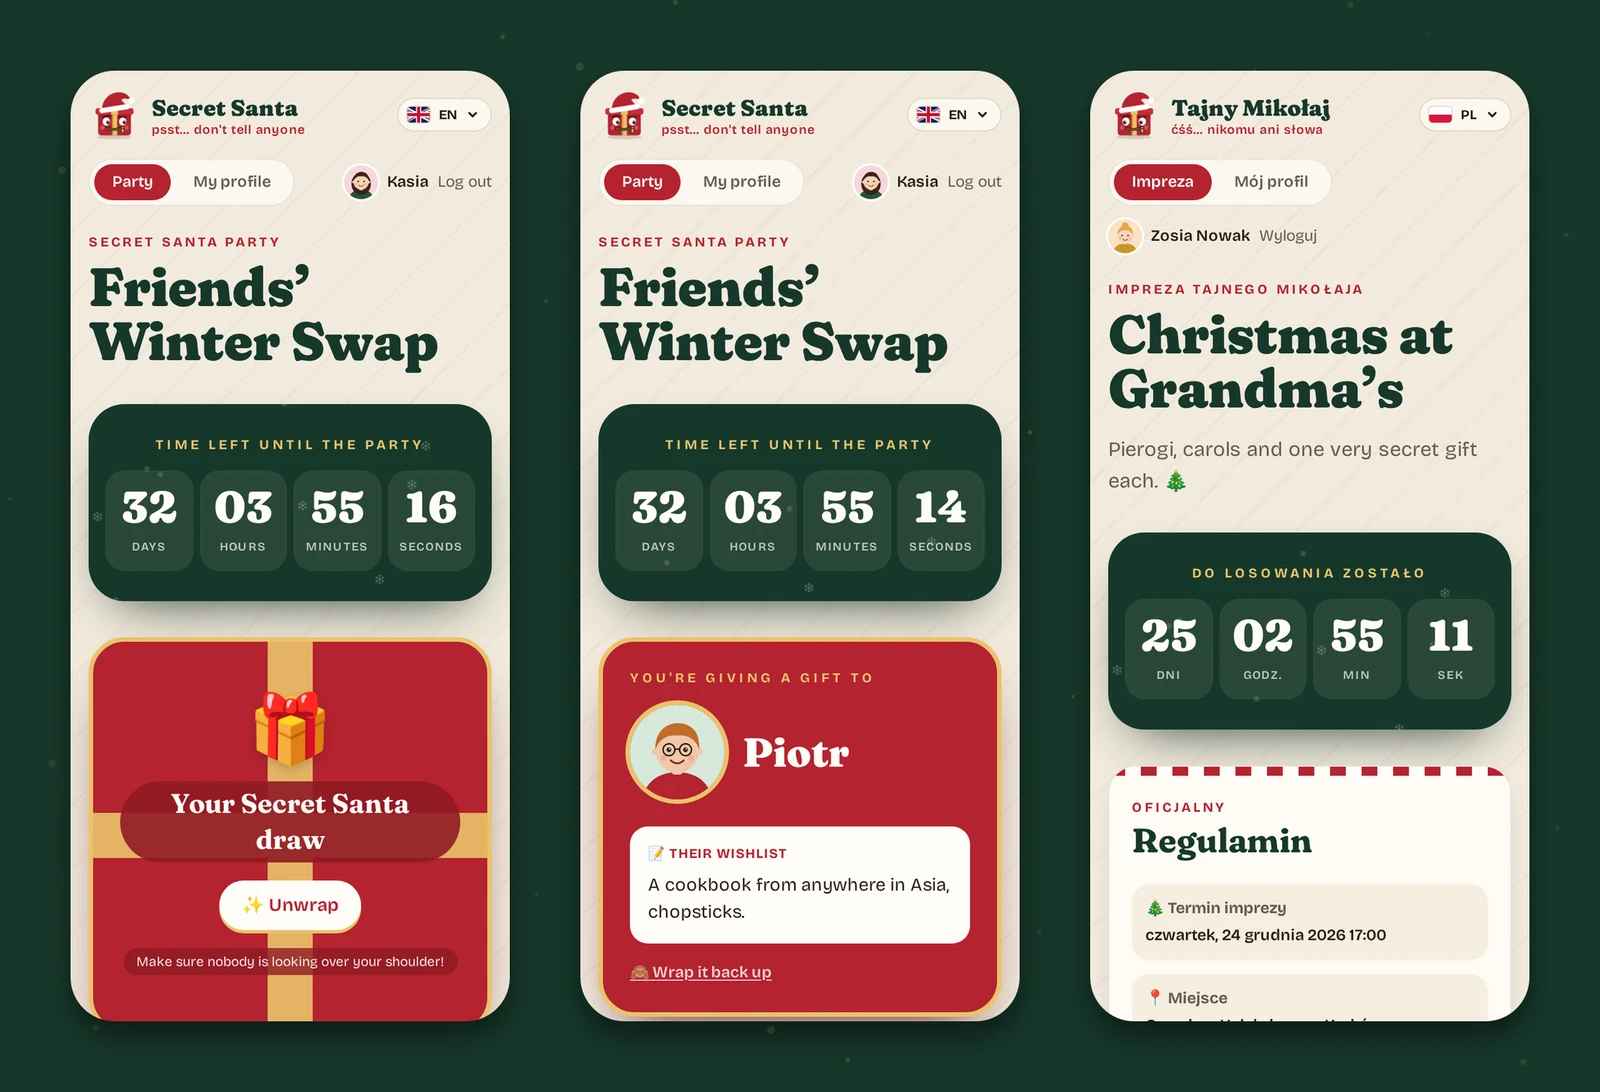
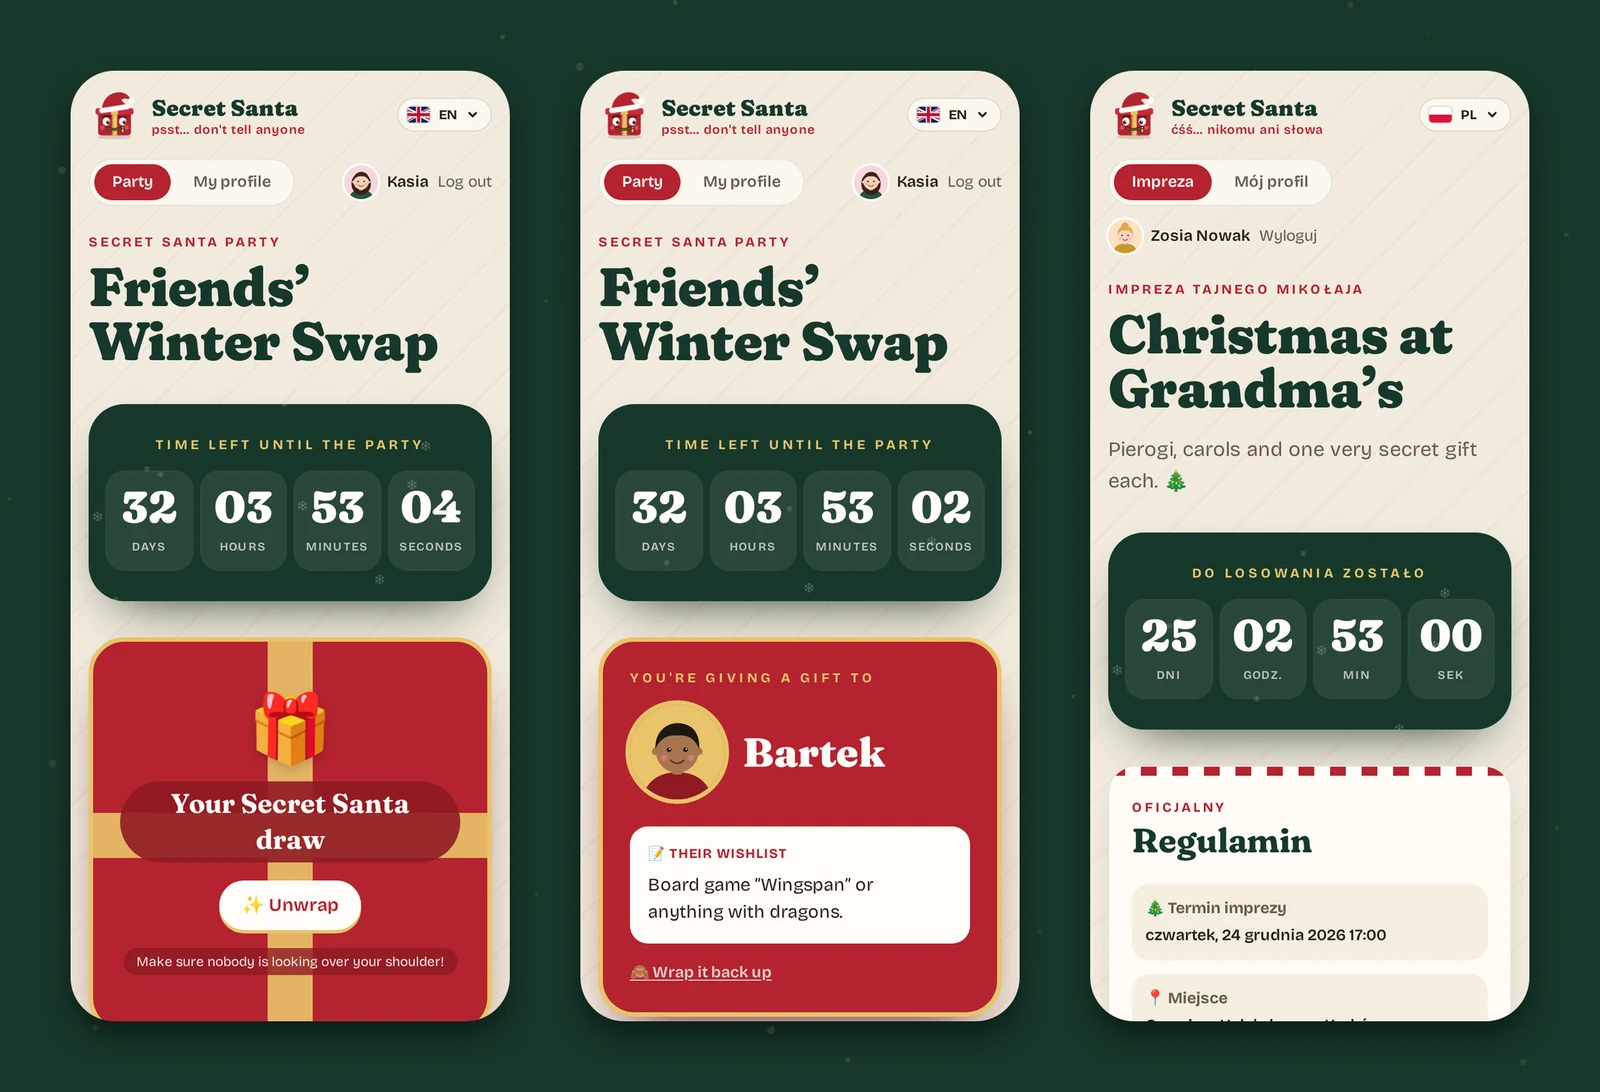
Keep the app name "Secret Santa" in every language
The name is a brand, so it moves from the app_name message to a constant in
src/lib/brand.ts. Descriptive Polish text keeps the Polish term.

diff --git a/src/routes/+layout.svelte b/src/routes/+layout.svelte
@@ -1,4 +1,5 @@
 <script lang="ts">
+	import { APP_NAME } from '#lib/brand.ts';
 	import './layout.css';
 	import favicon from '#lib/assets/favicon.svg';
 	import Logo from '#lib/components/Logo.svelte';
@@ -11,7 +12,7 @@
 
 <svelte:head>
 	<link rel="icon" href={favicon} />
-	<title>{m.app_name()}</title>
+	<title>{APP_NAME}</title>
 	<meta name="theme-color" content="#17382a" />
 </svelte:head>
 
@@ -22,7 +23,7 @@
 			<span class="leading-none">
 				<span
 					class="block font-display text-xl font-black text-pine sm:text-2xl"
-					style="font-variation-settings:'SOFT' 100,'WONK' 1">{m.app_name()}</span
+					style="font-variation-settings:'SOFT' 100,'WONK' 1">{APP_NAME}</span
 				>
 				<span class="block text-[0.7rem] font-semibold tracking-wider text-berry"
 					>{m.app_tagline()}</span

diff --git a/src/routes/new/+page.svelte b/src/routes/new/+page.svelte
@@ -1,4 +1,5 @@
 <script lang="ts">
+	import { APP_NAME } from '#lib/brand.ts';
 	import { enhance } from '$app/forms';
 	import { m } from '#lib/paraglide/messages.js';
 	import { errorText } from '#lib/errors.ts';
@@ -85,7 +86,7 @@
 	const error = $derived(localError || (form?.error ?? ''));
 </script>
 
-<svelte:head><title>{m.create_party()} · {m.app_name()}</title></svelte:head>
+<svelte:head><title>{m.create_party()} · {APP_NAME}</title></svelte:head>
 
 <div class="mx-auto max-w-2xl pt-4">
 	<p class="eyebrow">{m.create_party()}</p>

diff --git a/src/routes/admin/+page.svelte b/src/routes/admin/+page.svelte
@@ -1,4 +1,5 @@
 <script lang="ts">
+	import { APP_NAME } from '#lib/brand.ts';
 	import { enhance } from '$app/forms';
 	import { m } from '#lib/paraglide/messages.js';
 	import { getLocale } from '#lib/paraglide/runtime.js';
@@ -11,7 +12,7 @@
 	let { data, form }: PageProps = $props();
 </script>
 
-<svelte:head><title>{m.site_admin()} · {m.app_name()}</title></svelte:head>
+<svelte:head><title>{m.site_admin()} · {APP_NAME}</title></svelte:head>
 
 {#if !data.loggedIn}
 	<div class="mx-auto max-w-sm pt-8 text-center">

diff --git a/src/routes/p/[id]/+layout.svelte b/src/routes/p/[id]/+layout.svelte
@@ -1,4 +1,5 @@
 <script lang="ts">
+	import { APP_NAME } from '#lib/brand.ts';
 	import { m } from '#lib/paraglide/messages.js';
 	import { page } from '$app/state';
 	import Avatar from '#lib/components/Avatar.svelte';
@@ -16,7 +17,7 @@
 	);
 </script>
 
-<svelte:head><title>{data.party.name} · {m.app_name()}</title></svelte:head>
+<svelte:head><title>{data.party.name} · {APP_NAME}</title></svelte:head>
 
 {#if data.access}
 	<nav class="mb-6 flex flex-wrap items-center justify-between gap-3">

diff --git a/src/lib/components/Logo.svelte b/src/lib/components/Logo.svelte
@@ -1,5 +1,5 @@
 <script lang="ts">
-	import { m } from '#lib/paraglide/messages.js';
+	import { APP_NAME } from '#lib/brand.ts';
 	let {
 		size = 48,
 		animated = true,
@@ -14,7 +14,7 @@
 	class="logo {klass}"
 	class:animated
 	role="img"
-	aria-label={m.app_name()}
+	aria-label={APP_NAME}
 >
 	<!-- shadow -->
 	<ellipse cx="60" cy="112" rx="40" ry="5" fill="#2b1d17" opacity=".15" />

diff --git a/src/lib/brand.ts b/src/lib/brand.ts
@@ -1,0 +1,2 @@
+/** The app's name. A brand, so it is the same in every language (not a Paraglide message). */
+export const APP_NAME = 'Secret Santa';

diff --git a/scripts/messages.py b/scripts/messages.py
@@ -6,7 +6,6 @@ import json, pathlib
 
 M = {
  # app
- "app_name": ("Secret Santa", "Tajny Mikołaj"),
  "app_tagline": ("psst… don't tell anyone", "ćśś… nikomu ani słowa"),
  "footer": ("Made with 🎄 for families who can keep a secret", "Zrobione z 🎄 dla rodzin, które umieją dochować tajemnicy"),
  "site_admin": ("Site admin", "Administrator strony"),

diff --git a/docs/log.md b/docs/log.md
@@ -59,3 +59,6 @@ Chronological notes of what was built and why. Newest at the bottom. Agents: app
   `Record<Locale, …>`; time/currency formatting and rule quotes use it instead of `=== 'pl'`.
   `scripts/messages.py` has `LANGS` and asserts every entry has all columns.
 
+- App name is a brand constant (`src/lib/brand.ts`, "Secret Santa" in every language) instead
+  of the `app_name` message; Polish no longer shows "Tajny Mikołaj" as the title. Descriptive
+  Polish text (e.g. "Impreza Tajnego Mikołaja", rules) still uses the Polish term.

diff --git a/README.md b/README.md
@@ -1,4 +1,4 @@
-# Secret Santa 🎅 (Tajny Mikołaj)
+# Secret Santa 🎅
 
 **Self-hosted Secret Santa for families and friend groups — psst… don't tell anyone.**
 Create a party, invite everyone with a code, write the rules together and let the draw do its
